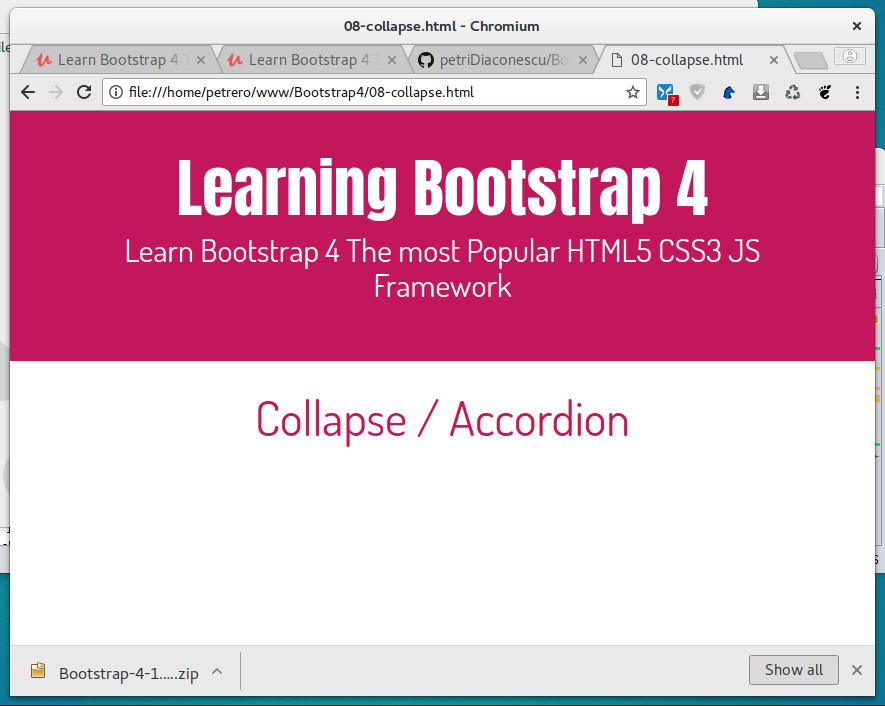
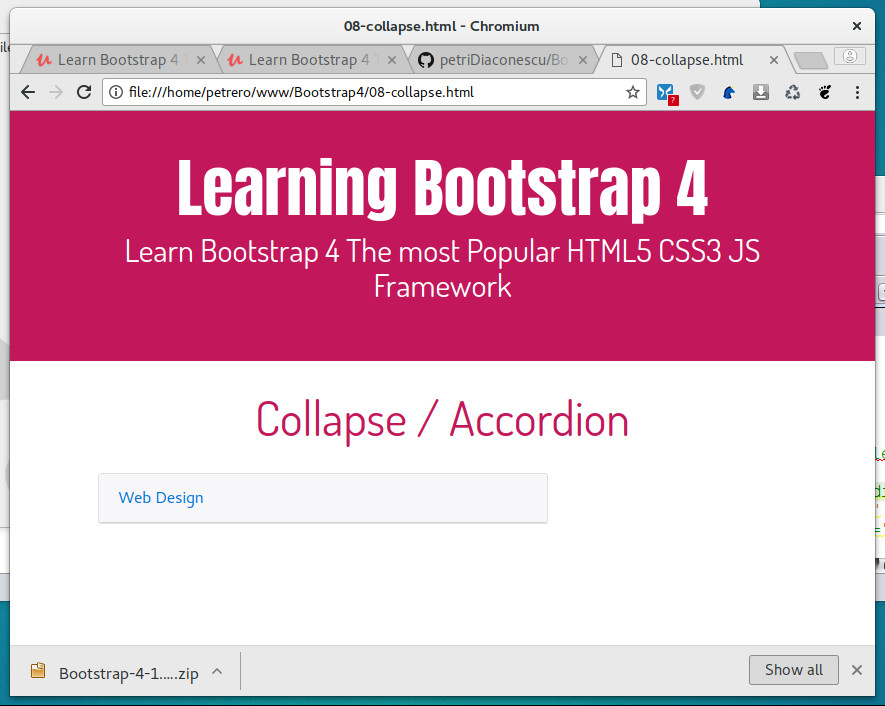
Create the first accordion panel

diff --git a/08-collapse.html b/08-collapse.html
@@ -34,7 +34,26 @@
                     Web Design
                 </a>
               </div>
-            </div>
+              <div id="service1" class="collapse show" 
+                role="tabpanel" aria-labelledby="heading1">
+                  Curabitur efficitur vestibulum pellentesque. 
+                  Nam quis quam suscipit, consectetur risus sit amet, 
+                  tincidunt lacus. Vivamus eleifend volutpat lorem, 
+                  eget vehicula sapien placerat eget. Suspendisse 
+                  consequat ligula ante, ut tincidunt enim mollis quis. 
+                  Mauris vitae lacus quis nibh convallis volutpat at eu 
+                  est. Donec semper mauris at lorem hendrerit, venenatis 
+                  lobortis lorem blandit. Fusce eu tellus at massa 
+                  ultrices ullamcorper at a ante. Maecenas maximus 
+                  porta augue, nec iaculis massa eleifend in. Quisque 
+                  congue aliquet ipsum, ut maximus purus tristique vitae. 
+                  Vestibulum fringilla dolor in nisi fringilla blandit. 
+                  Maecenas sagittis pretium mi vitae fringilla. Mauris 
+                  imperdiet risus aliquet arcu ullamcorper, rutrum 
+                  finibus massa fringilla. Curabitur sagittis sit amet 
+                  sapien id condimentum.
+              </div>
+            </div><!-- card -->
           </div>
         </div>
       </div>
